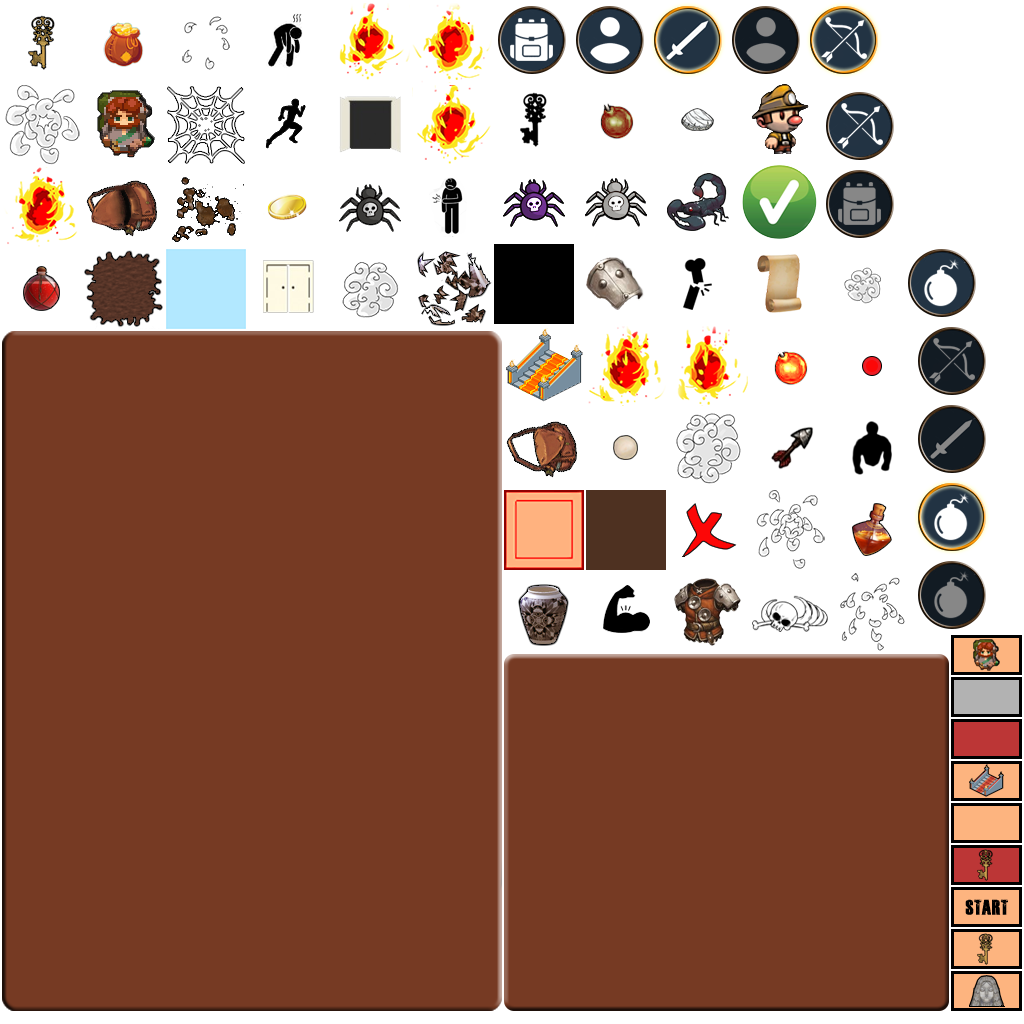
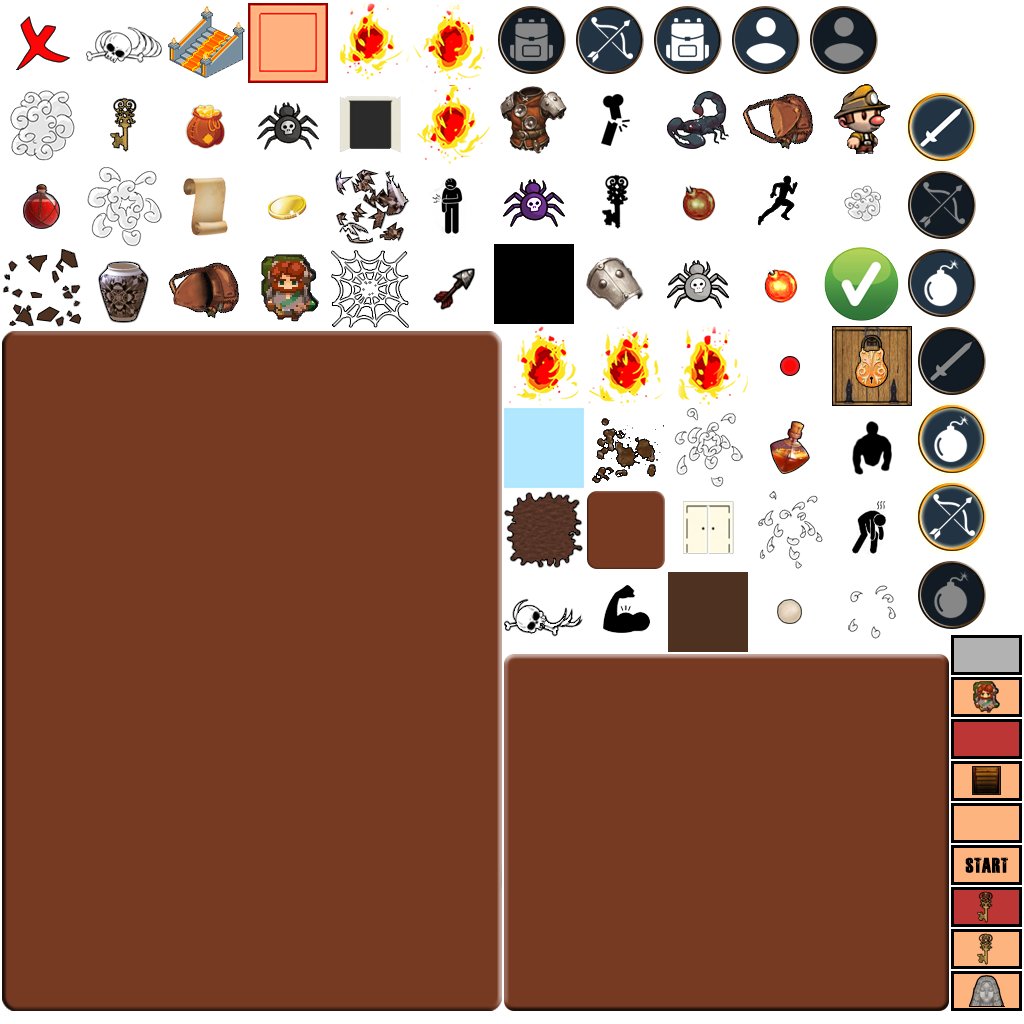
[Next floor key] Added the locked trapdoor + the action to open it if the player has the key.

diff --git a/core/src/com/dokkaebistudio/tacticaljourney/rendering/ContextualActionPopinRenderer.java b/core/src/com/dokkaebistudio/tacticaljourney/rendering/ContextualActionPopinRenderer.java
@@ -109,6 +109,7 @@ public class ContextualActionPopinRenderer implements Renderer, RoomSystem {
 
 	private void updateContentForAction() {
 		Entity actionEntity = playerCompo.getActionEntity();
+		yesBtn.setDisabled(false);
 
 		switch (playerCompo.getRequestedAction()) {
 			
@@ -133,12 +134,28 @@ public class ContextualActionPopinRenderer implements Renderer, RoomSystem {
 		case EXIT:
 			ExitComponent exitComponent = Mappers.exitComponent.get(actionEntity);
 			title.setText("Doorway to lower floor");
-			desc.setText("Congratulations, you reached the exit of the first floor. There will be many floors to explore later, unfortunately at the moment the doorway is stuck. Please come back after a few months."
-					+ "\nSadness galore.");
-			yesBtn.setText("Wait for months");
-			if (yesBtnListener != null) {
-				yesBtn.removeListener(yesBtnListener);
-			}			
+			if (exitComponent.isOpened()) {
+				title.setText("Doorway to lower floor");
+				desc.setText("Congratulations, you reached the exit of the first floor. There will be many floors to explore later, unfortunately at the moment the doorway is stuck. Please come back after a few months."
+						+ "\nSadness galore.");
+				yesBtn.setText("Wait for months");
+				if (yesBtnListener != null) {
+					yesBtn.removeListener(yesBtnListener);
+				}			
+			} else {
+				desc.setText("The door is held close by a big ancient lock. You should probably look for the key.");
+				yesBtn.setText("Unlock");
+				if (yesBtnListener != null) {
+					yesBtn.removeListener(yesBtnListener);
+				}
+				
+				InventoryComponent inventoryComponent = Mappers.inventoryComponent.get(player);
+				if (inventoryComponent.hasKey()) {
+					updateUnlockListener(actionEntity, exitComponent);
+				} else {
+					yesBtn.setDisabled(true);
+				}
+			}
 			break;
 			
 		case PRAY:
@@ -233,6 +250,24 @@ public class ContextualActionPopinRenderer implements Renderer, RoomSystem {
 		};
 		yesBtn.addListener(yesBtnListener);
 	}
+	
+	private void updateUnlockListener(final Entity exit, final ExitComponent exitComponent) {
+		if (yesBtnListener != null) {
+			yesBtn.removeListener(yesBtnListener);
+		}
+		yesBtnListener = new ChangeListener() {
+			@Override
+			public void changed(ChangeEvent event, Actor actor) {
+				InventoryComponent inventoryComponent = Mappers.inventoryComponent.get(player);
+				inventoryComponent.removeKey();
+				
+				exitComponent.open(exit);
+				closePopin();
+			}
+		};
+		yesBtn.addListener(yesBtnListener);
+	}
+	
 
 	private void updatePrayListener(final Entity statue, final StatueComponent statueComponent) {
 		if (yesBtnListener != null) {

diff --git a/core/src/com/dokkaebistudio/tacticaljourney/components/transition/ExitComponent.java b/core/src/com/dokkaebistudio/tacticaljourney/components/transition/ExitComponent.java
@@ -1,7 +1,11 @@
 package com.dokkaebistudio.tacticaljourney.components.transition;
 
 import com.badlogic.ashley.core.Component;
+import com.badlogic.ashley.core.Entity;
+import com.dokkaebistudio.tacticaljourney.Assets;
+import com.dokkaebistudio.tacticaljourney.components.display.SpriteComponent;
 import com.dokkaebistudio.tacticaljourney.room.Floor;
+import com.dokkaebistudio.tacticaljourney.util.Mappers;
 
 /**
  * Represents a transition from a floor to another.
@@ -16,6 +20,19 @@ public class ExitComponent implements Component {
 	/** The room on the other side of this door. */
 	private Floor targetedFloor;
 
+	
+	/**
+	 * Open the exit door.
+	 * @param exit the exit entity
+	 */
+	public void open(Entity exit) {
+		if (!opened) {
+			SpriteComponent spriteComponent = Mappers.spriteComponent.get(exit);
+			spriteComponent.getSprite().setRegion(Assets.exit_opened);
+			
+			opened = true;
+		}
+	}
 	
 	
 	// Getters and Setters

diff --git a/core/src/com/dokkaebistudio/tacticaljourney/factory/EntityFactory.java b/core/src/com/dokkaebistudio/tacticaljourney/factory/EntityFactory.java
@@ -192,7 +192,7 @@ public final class EntityFactory {
     	return doorEntity;
 	}
 	
-	public Entity createExit(Room room, Vector2 pos) {
+	public Entity createExit(Room room, Vector2 pos, boolean opened) {
 		Entity exitEntity = engine.createEntity();
 		exitEntity.flags = EntityFlagEnum.REMAINS_BONES.getFlag();
 
@@ -202,12 +202,12 @@ public final class EntityFactory {
     	exitEntity.add(movableTilePos);
     	
     	SpriteComponent spriteCompo = engine.createComponent(SpriteComponent.class);
-    	Sprite s = new Sprite(Assets.exit);
+    	Sprite s = new Sprite(opened ? Assets.exit_opened : Assets.exit_closed);
     	spriteCompo.setSprite(s);
     	exitEntity.add(spriteCompo);
     	
     	ExitComponent exitCompo = engine.createComponent(ExitComponent.class);
-    	exitCompo.setOpened(true);
+    	exitCompo.setOpened(opened);
     	exitEntity.add(exitCompo);
 
 		engine.addEntity(exitEntity);

diff --git a/core/src/com/dokkaebistudio/tacticaljourney/Assets.java b/core/src/com/dokkaebistudio/tacticaljourney/Assets.java
@@ -45,7 +45,8 @@ public class Assets {
 	public static AtlasRegion mud;
 	public static AtlasRegion mud_destroyed;
 	
-	public static AtlasRegion exit;
+	public static AtlasRegion exit_opened;
+	public static AtlasRegion exit_closed;
 	public static AtlasRegion entrance;
 	public static AtlasRegion door_closed;
 	public static AtlasRegion door_opened;
@@ -239,7 +240,8 @@ public class Assets {
 		mud = Assets.getTexture("tile-mud-test");
 		mud_destroyed = Assets.getTexture("tile-mud-destroyed");
 		
-		exit = Assets.getTexture("exit");
+		exit_opened = Assets.getTexture("exit_opened");
+		exit_closed = Assets.getTexture("exit_closed");
 		entrance = Assets.getTexture("entrance");
 		door_closed = Assets.getTexture("door-closed");
 		door_opened = Assets.getTexture("door-opened");

diff --git a/core/src/com/dokkaebistudio/tacticaljourney/room/generation/RoomGenerator.java b/core/src/com/dokkaebistudio/tacticaljourney/room/generation/RoomGenerator.java
@@ -285,6 +285,8 @@ public class RoomGenerator {
 		case START_FLOOR_ROOM:
 			
 //			entityFactory.itemFactory.createItemKey(room, new Vector2(12, 6));
+//			entityFactory.createExit(room, new Vector2(12, 4), false);
+
 //			entityFactory.playerFactory.createGodessStatue(new Vector2(12, 6), room);
 			
 //			entityFactory.itemFactory.createItemVigor(room, new Vector2(10, 10));
@@ -341,7 +343,7 @@ public class RoomGenerator {
 			if (possibleSpawns.size() == 0) return;
 			int nextInt = random.nextInt(possibleSpawns.size());
 			Vector2 pos = possibleSpawns.get(nextInt);
-			entityFactory.createExit(room, pos);
+			entityFactory.createExit(room, pos, false);
 			default:
 			break;
 		}
